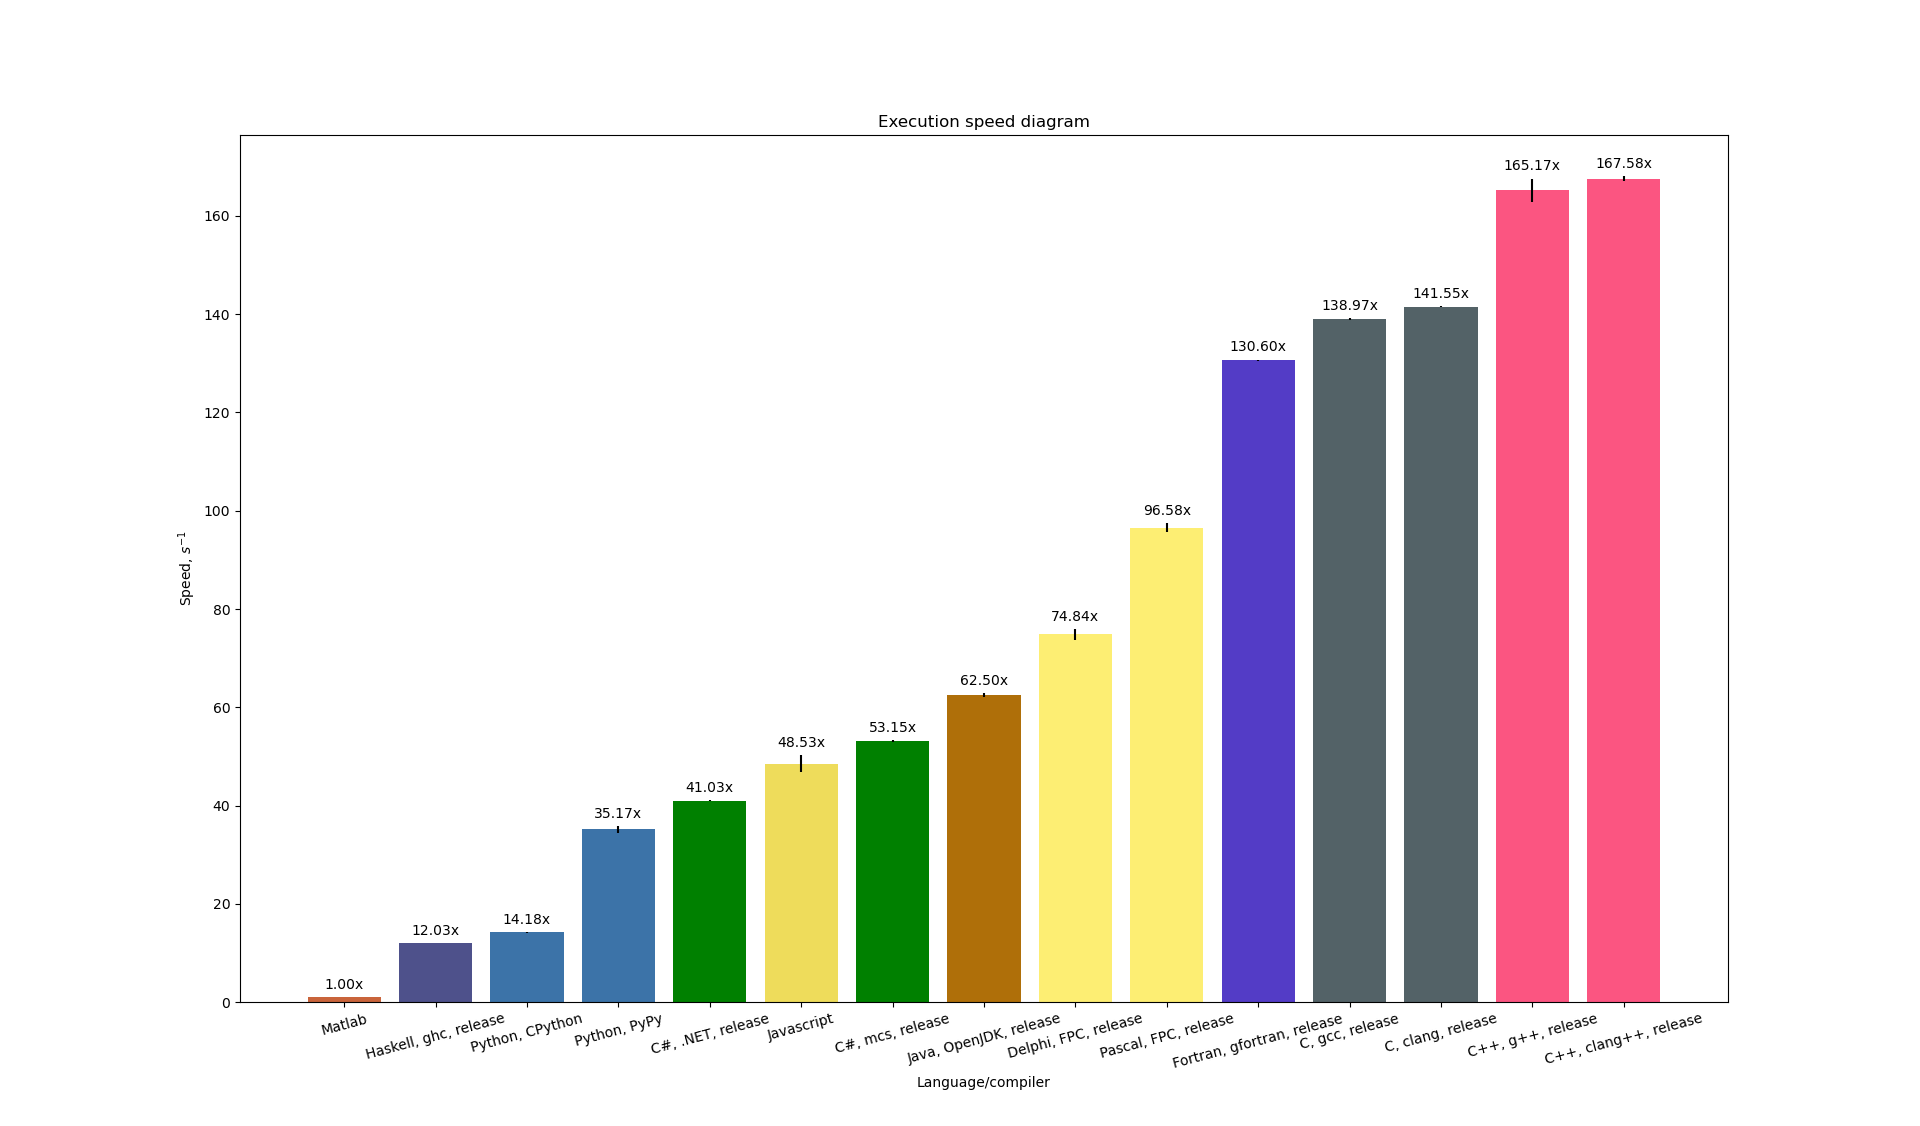
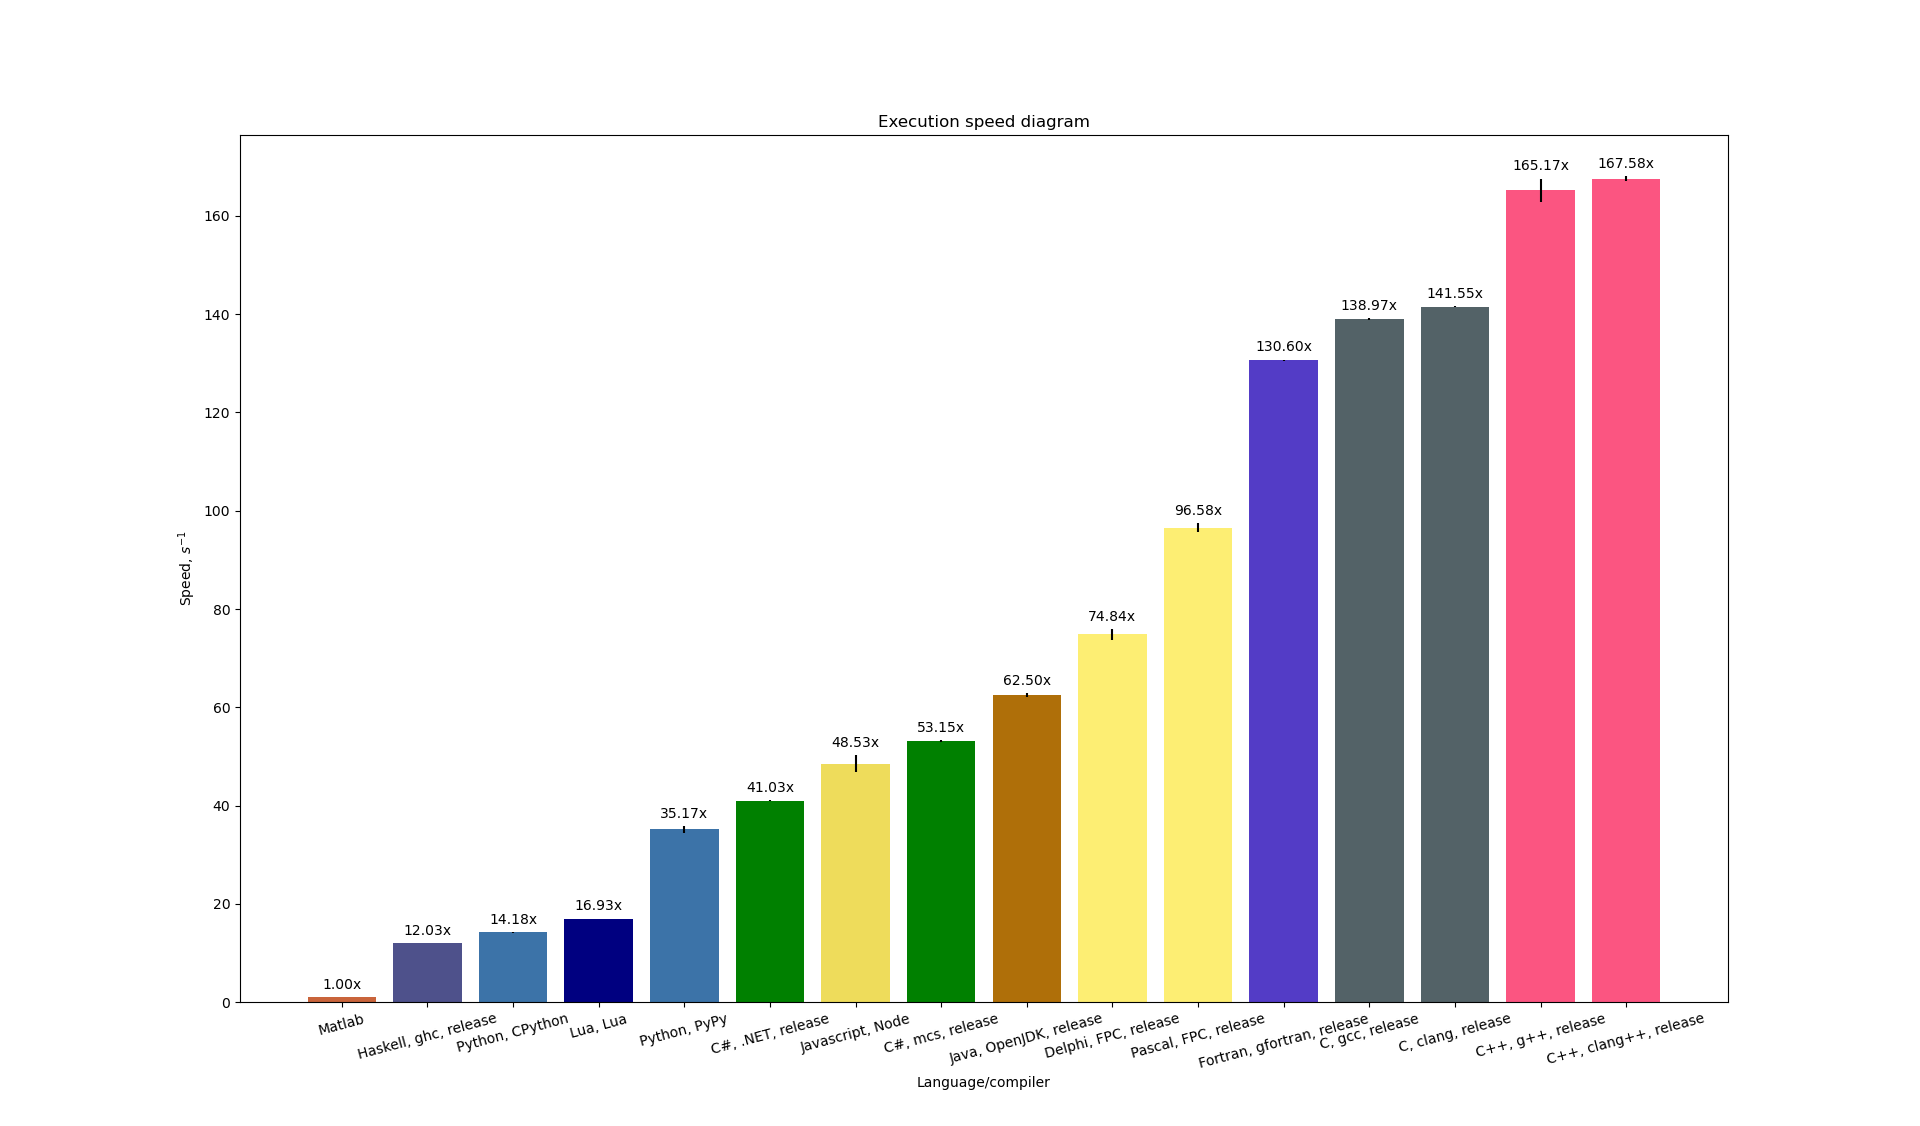
Lua added + insignificant improvements

Changed region(s): [[0.1562, 0.1243, 0.875, 0.9636]]

diff --git a/source/dijkstra_cpp.cpp b/source/dijkstra_cpp.cpp
@@ -338,36 +338,10 @@ void solve_ver3(const std::vector<std::vector<std::pair<unsigned int, float>>> &
 
 #if VERSION == 4
 void solve_ver4(const std::vector<std::map<unsigned int, float>> &graph, const std::vector<std::pair<unsigned int, unsigned int>> &benchmarks)
-{
-    indexed_priority_queue<Candidate> candidates(graph.size());
-
-    for (const auto &benchmark : benchmarks)
-    {
-        const unsigned int source = benchmark.first;
-        const unsigned int destination = benchmark.second;
-        candidates.reset();
-        candidates.push({ source, 0, 0.0 });
-        float distance = std::numeric_limits<float>::infinity();
-        unsigned int int_distance = 0;
-        while (!candidates.empty())
-        {
-            Candidate candidate = candidates.top();
-            if (candidate.id == destination) { int_distance = candidate.int_distance; distance = candidate.distance; break; }
-            candidates.pop();
-            const auto &connections = graph[candidate.id];
-
-            for (const auto &connection : connections)
-            {
-                candidates.push({ connection.first, candidate.int_distance + 1, candidate.distance + connection.second });
-            }
-        }
-        std::cout << source << " -> " << destination << ": " << distance << " (" << int_distance << ")\n";
-    }
-}
-#endif
-
-#if VERSION == 5
+#elif VERSION == 5
 void solve_ver5(const std::vector<std::vector<std::pair<unsigned int, float>>> &graph, const std::vector<std::pair<unsigned int, unsigned int>> &benchmarks)
+#endif
+#if VERSION == 4 || VERSION == 5
 {
     indexed_priority_queue<Candidate> candidates(graph.size());
 

diff --git a/script/create_graphics.py b/script/create_graphics.py
@@ -52,6 +52,7 @@ class Measurement:
         elif "Haskell" in labels: self.color = "xkcd:twilight" if find_closest else "#5e5086"
         elif "Python" in labels: self.color = "xkcd:flat blue" if find_closest else "#3572a5"
         elif "Javascript" in labels: self.color = "xkcd:dull yellow" if find_closest else "#f1e05a"
+        elif "Lua" in labels: self.color = "navy" if find_closest else "#000080"
         elif "Matlab" in labels: self.color = "xkcd:terra cotta" if find_closest else "#e16737"
         else: self.color = "black" if find_closest else "#000000"
 
@@ -159,7 +160,10 @@ class Graphics:
             "Haskell, ghc, release" : ("dijkstra_haskell_ghc_release.txt", ghc_present),
         })
         label_to_filename.update({
-            "Javascript" : ("dijkstra_js_node.txt", bool(shutil.which("node")))
+            "Javascript, Node" : ("dijkstra_js_node.txt", bool(shutil.which("node")))
+        })
+        label_to_filename.update({
+            "Lua, Lua" : ("dijkstra_lua_lua.txt", bool(shutil.which("lua")))
         })
         label_to_filename.update({
             "Python, CPython" : ("dijkstra_python_cpython.txt", bool(shutil.which("python")))

diff --git a/source/dijkstra_java.java b/source/dijkstra_java.java
@@ -1,11 +1,7 @@
 import java.io.BufferedReader;
 import java.io.FileReader;
 import java.io.IOException;
-//import java.text.NumberFormat;
-//import java.text.ParseException;
 import java.util.ArrayList;
-//import java.util.List;
-//import java.util.Locale;
 
 class Connection
 {

diff --git a/README.md b/README.md
@@ -3,7 +3,7 @@
 This repository contains implementations of Dijkstra algorithm in different programming languages. Quick peek at the results:
 
 ![Bar chart with executions times, Matlab is the slowest, C++ is the fastest](data/benchmark.png "Execution times")
-All data is included, you are welcome to play with the configuration of the visualizer. This graph was produced with `../script/create_graphics.py --reverse --inverse --relative-slowest --no-debug --no-extras`.
+All data is included, you are welcome to play with the configuration of the visualizer. This graph was produced with: `cd data && ../script/create_graphics.py --reverse --inverse --relative-slowest --no-debug --no-extras`.
 
 ### Goal
 The benchmark is a combined benchmark that strives to capture a performance of a **reasonably-written** and **balanced** program. Check out the [daughter project](https://github.com/kyrylo-sovailo/benchmark_masterrace) to see what happens with these constraints dropped.
@@ -18,7 +18,7 @@ A "reasonable" code is a code that:
  - Does not use multithreading
  - Does not assume any prior knowledge about the program input
 
-A "balanced" program is a program that does all types of operations that you'd expect a non-mathematical utility to do, in close-to-real-life proportions. It includes:
+A "balanced" program is a program that does all types of operations that you'd expect a non-computation-heavy utility to do, in close-to-real-life proportions. It includes:
  - Logics
  - Floating-point operations
  - Memory management
@@ -27,12 +27,21 @@ A "balanced" program is a program that does all types of operations that you'd e
  - Initialization and finalization
  - etc.
 
-The benchmark does not focus on only one of these aspects. Finding out which exactly part is faster in which languages is outside of the scope of this repository.
+The benchmark does not focus on only one of these aspects. Finding out which exact part is faster in which languages is outside of the scope of this repository. Some further research on `C++` and `C` is coming soon.
 
 ### Notes
 The names of the bars on the chart are pretty self-explanatory. Except for:
  - `C, g++` is a C program compiled with g++ as valid C++.
  - `C, clang++` is same but for clang++.
+
+My knowledge of programming languages is not on the same level, and not all implementations are created equally. Here are my comments on the probability of improvement:
+ - `C++`: reference implementation, well-researched and well-optimized.
+ - `C`, `Fortran`: direct translation, the optimization is powerful, no improvement is expected.
+ - `Pascal`, `C#`, `Java`: direct translation, the optimization is not great, some improvement may be achieved by micromanagement.
+ - `Python`, `JS`, `Lua`: not well-researched, some improvement may be achieved by micromanagement and different data structures.
+ - `Matlab`: I highly doubt that something can be done to the algorithm, though improvement through micromanagement is very likely.
+ - `Delphi`: since Pascal is (roughly) a subset of Delphi, the improvement can be achieved by simply downgrading to Pascal.
+ - `Haskell`: further improvements are probable. Better Haskell knowledge is required.
 
 ### Hardware
 The measurements were performed on Intel Pentium 4415U. To reduce noise, the kernel was booted with `isolcpus=1,3`, where 1 and 3 are logical cores that correspond to physical core 1.
@@ -50,6 +59,7 @@ Python               3.12.9
 PyPy                 7.3.17, Target 3.10.14
 GHC                  9.8.4
 Node                 22.13.1
+Lua                  5.4.6
 Matlab               24.2.0.2833386 (R2024b) Update 4
 Kernel               6.12.10-zen1-x86_64
 ```
